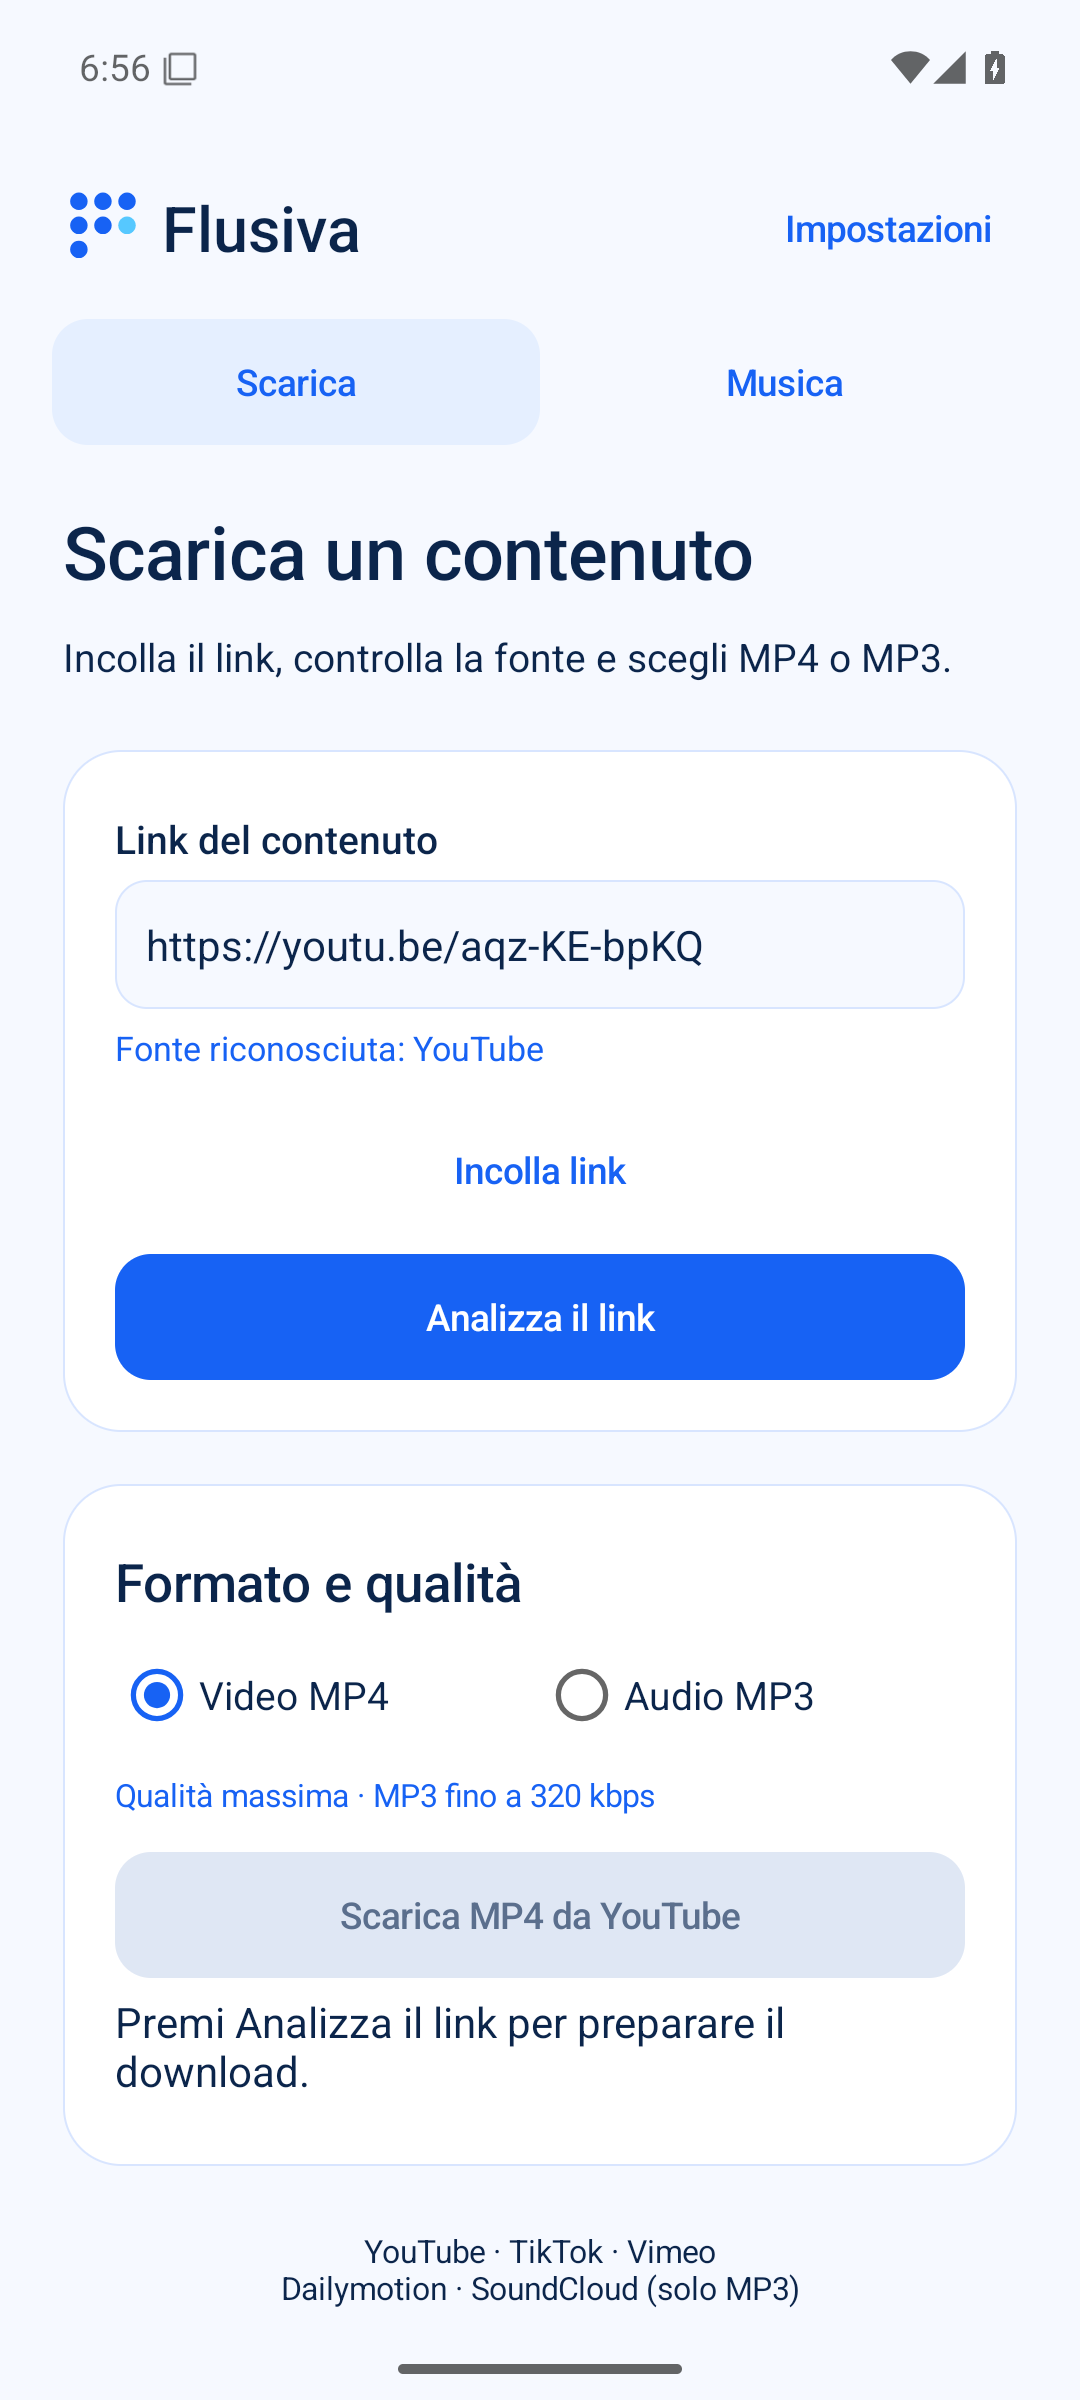
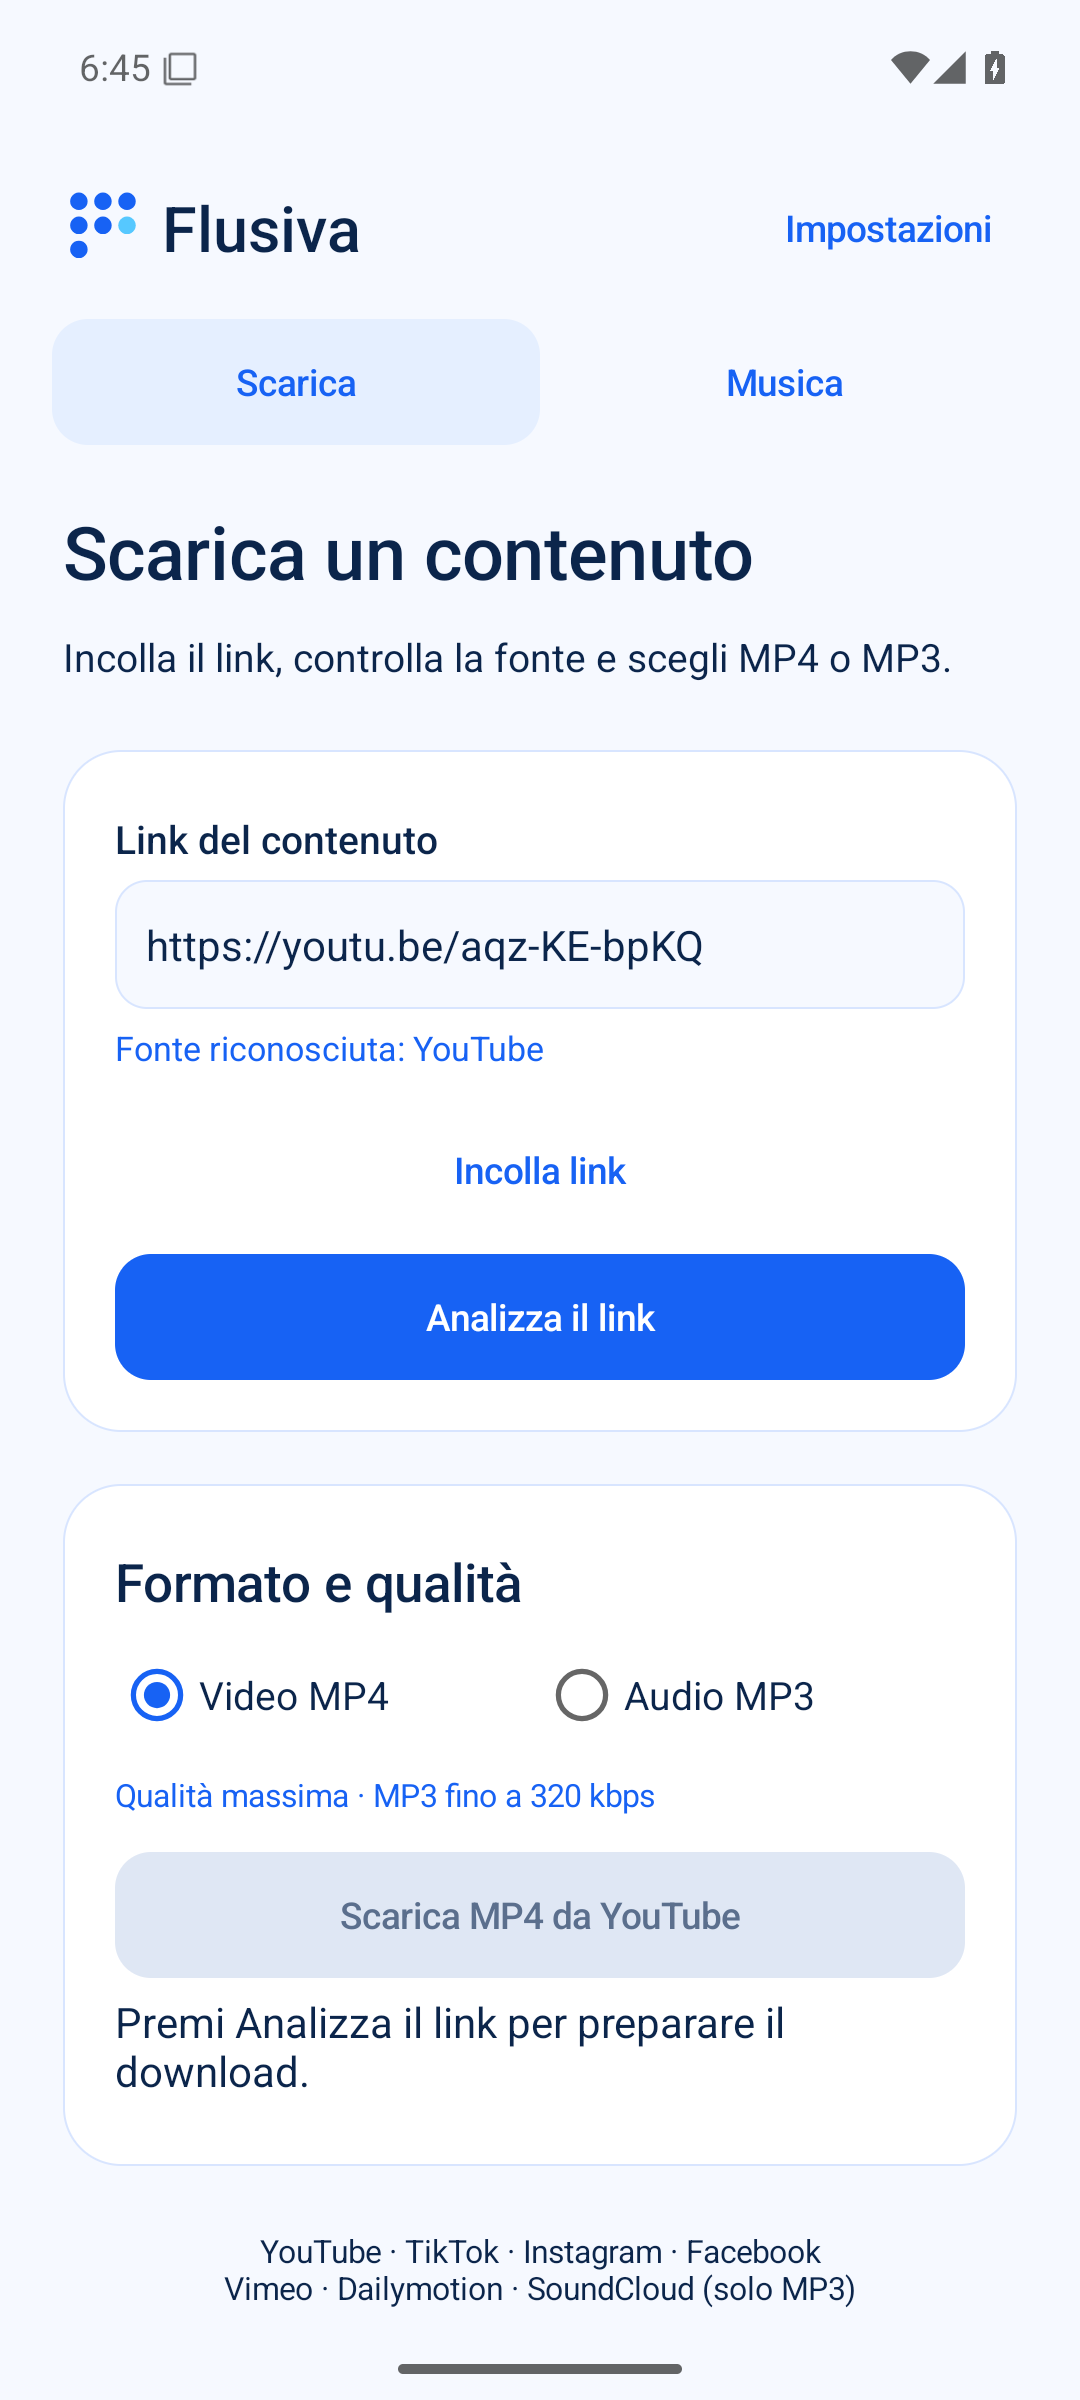
Document verified Meta downloads and Android 0.8.1 screenshots [skip ci]

Changed region(s): [[0.2139, 0.9375, 0.7944, 0.9688]]

diff --git a/docs/VALIDATION.md b/docs/VALIDATION.md
@@ -3,10 +3,12 @@
 ## Instagram, Facebook e foto — 0.8.1
 
 * 48 test Node riusciti: link diretti/condivisi, rifiuto di host ingannevoli, redirect nella stessa piattaforma, metadati Meta incompleti, controllo del file MP4 e pulizia in caso di durata o tracce non valide. Test foto per scelta del candidato maggiore, distinzione da copertine video, URL CDN, contenuto immagine, limite di dimensione e annullamento.
-* Build Android, test JVM e Lint locali riusciti con JDK 17. Test aggiunti per riconoscimento di Instagram/Facebook, URI condivisi e mancato riuso di un’analisi per un altro contenuto o dopo la scadenza di 90 secondi.
+* Build Android, 9 test JVM e Lint locali riusciti con JDK 17. Test aggiunti per riconoscimento di Instagram/Facebook, URI condivisi e mancato riuso di un’analisi per un altro contenuto o dopo la scadenza di 90 secondi.
 * App Electron reale: test d’avvio con sette piattaforme e nuova scelta delle foto, qualità selezionabile anche in modalità qualità massima, MP4/MP3 disabilitati per post fotografici.
 * Prove online Windows con il motore incluso: MP4 Instagram e Facebook e JPEG Instagram trasferiti completamente e verificati con FFprobe. Dettagli e limiti in [PLATFORMS.md](PLATFORMS.md). Il link `share/` dello screenshot è stato risolto nel Reel di destinazione.
 * Android su emulatore: aggiunti controlli UI per fonte e formato Meta, selezione di foto da fixture esplicitamente locale, MIME e salvataggio dell’immagine. La conversione nativa di prova usa un info-json, senza un secondo URL di estrazione. Gli esiti CI vengono verificati prima della pubblicazione.
+* Verifica del tag `v0.8.1`: tutti i 5 test strumentati su Android 15 riusciti (70 secondi complessivi), inclusi i controlli precedenti di playlist e ascolto a schermo spento. Screenshot Instagram, Facebook e foto ispezionati e inclusi nella guida. Build native Windows, Linux, Mac Intel e Mac Apple Silicon riuscite nella stessa [esecuzione Actions](https://github.com/CosmoNetinfo/flusiva/actions/runs/46177213875).
+* Esiti delle prove online, senza URL CDN o token temporanei: [JSON di verifica](evidence/meta-downloads-2026-11-28.json).
 * Non è stata misurata una percentuale di accelerazione su un telefono fisico. Le prove online Windows non sostituiscono quelle su tutte le reti e i dispositivi Android.
 
 ## Interfaccia Android 0.7.1

diff --git a/docs/ANDROID.md b/docs/ANDROID.md
@@ -30,6 +30,10 @@ Incollare un link video/Reel Instagram o Facebook, anche dai pulsanti Condividi 
 
 Il motore viene preparato in background all’apertura. Un download avviato entro 90 secondi dall’analisi dello stesso contenuto riusa i metadati temporanei; dopo la scadenza esegue una nuova estrazione. Per i flussi segmentati usa al massimo quattro frammenti contemporaneamente. Le attese di rete o imposte dal servizio restano possibili; non è stata misurata una percentuale di accelerazione su un telefono fisico.
 
+Schermate reali della 0.8.1 su emulatore Android 15. Il pannello delle foto usa una fixture locale dichiarata; la prova del download online del JPEG è documentata separatamente in [PLATFORMS.md](PLATFORMS.md).
+
+<p><img src="images/android-instagram.png" alt="Link condiviso Instagram riconosciuto prima dell’analisi" width="280"> <img src="images/android-facebook.png" alt="Link Facebook riconosciuto con comando Scarica MP4 da Facebook" width="280"> <img src="images/android-photos.png" alt="Post fotografico di prova con scelta delle foto e download senza ricompressione" width="280"></p>
+
 ## Lettore e playlist
 
 Aprire **Musica** per ascoltare i file scaricati o importati, creare playlist persistenti e continuare l’ascolto in background. Le pagine **Lettore**, **Playlist** e **Audio** separano riproduzione, libreria e impostazioni audio. Include dati di qualità del file, decoder, equalizzatore del dispositivo e timer. [Guida del lettore musicale](MUSIC.md).

diff --git a/docs/PLATFORMS.md b/docs/PLATFORMS.md
@@ -37,3 +37,5 @@ Il link dello screenshot `instagram.com/share/BAWVJE-rtk` è stato risolto onlin
 ## Riprodurre le verifiche
 
 `npm test` per le verifiche deterministiche. `node scripts/platform-smoke.cjs` per sonde online dei metadati; i risultati sono in `test-results/platform-probes.json`. `node scripts/online-smoke.cjs URL` per un download completo MP4 e MP3 di un contenuto video autorizzato, o solo MP3 se il contenuto è audio. Le prove online dipendono dallo stato dei servizi e non fanno parte della CI.
+
+Per ripetere le tre prove Meta: `node scripts/platform-smoke.cjs instagram facebook instagram-photo --download-mp4`. Il comando salva gli esiti in `test-results/platform-downloads.json`, verifica i file con FFprobe e rimuove i temporanei. Il parametro storico `--download-mp4` scarica il file immagine originale quando la sonda è `instagram-photo`.
